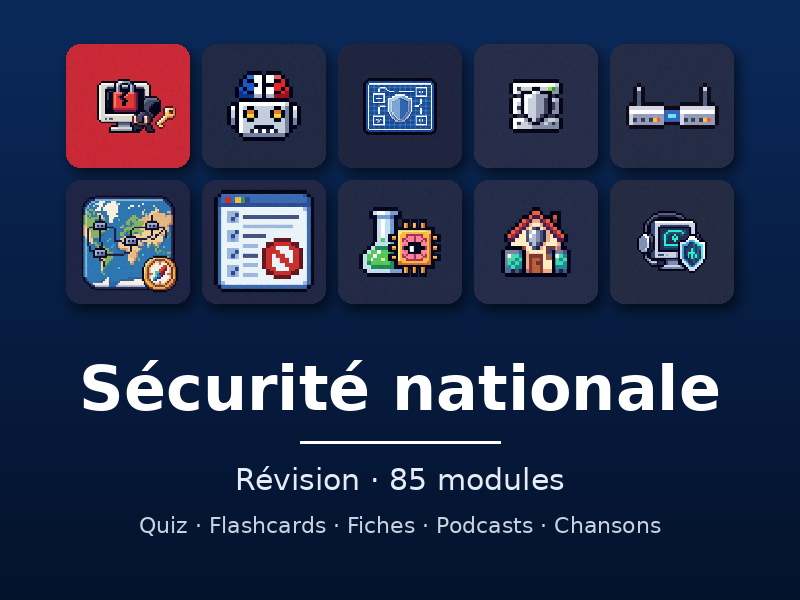
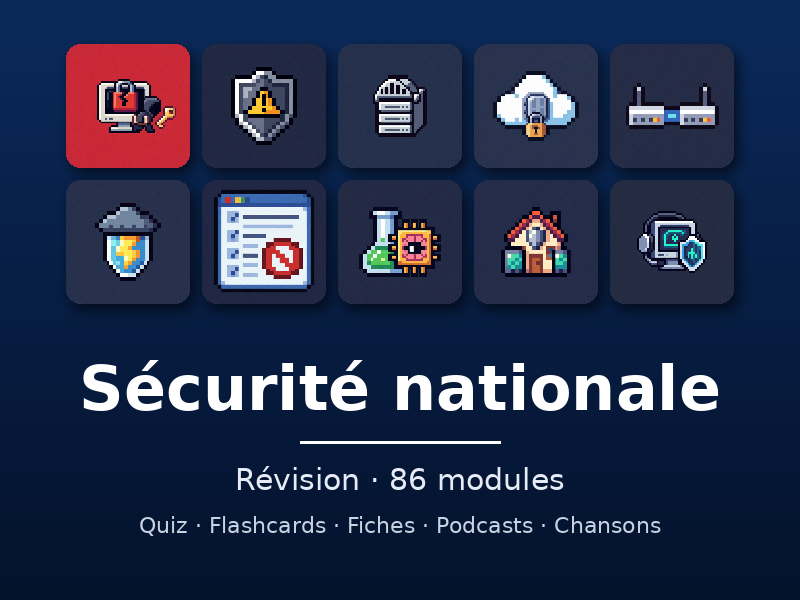
Inventaire des modules et des médias régénéré (07/10)

diff --git a/INVENTAIRE.md b/INVENTAIRE.md
@@ -1,104 +1,105 @@
 # Inventaire des modules et des médias — pse-securite-nationale
 
-Généré le 02/10/2026 à 14:20 par `scripts/inventaire_medias.py` (85 modules). ✅ présent, ❌ absent ; pour QCM, flashcards et TP, nombre d'éléments (0 = absent).
+Généré le 07/10/2026 à 22:19 par `scripts/inventaire_medias.py` (88 modules). ✅ présent, ❌ absent ; pour QCM, flashcards et TP, nombre d'éléments (0 = absent).
 
 ## Synthèse
 
 | Contenu | Présents | Absents | Couverture |
 |---|---:|---:|---:|
-| Fiche | 85 | 0 | 100 % |
-| QCM | 85 | 0 | 100 % |
-| Flash | 85 | 0 | 100 % |
-| TP | 4 | 81 | 4 % |
-| Icône | 85 | 0 | 100 % |
-| Infographie locale | 23 | 62 | 27 % |
-| Infographie NotebookLM | 80 | 5 | 94 % |
-| Paroles | 85 | 0 | 100 % |
-| Chanson | 85 | 0 | 100 % |
-| Podcast local | 20 | 65 | 23 % |
-| Podcast NotebookLM | 83 | 2 | 97 % |
-| Micro-chronique | 1 | 84 | 1 % |
-| Narration fiche | 85 | 0 | 100 % |
-| Audio QCM/flash | 85 | 0 | 100 % |
+| Fiche | 88 | 0 | 100 % |
+| QCM | 88 | 0 | 100 % |
+| Flash | 88 | 0 | 100 % |
+| TP | 4 | 84 | 4 % |
+| Icône | 86 | 2 | 97 % |
+| Infographie locale | 86 | 2 | 97 % |
+| Infographie NotebookLM | 88 | 0 | 100 % |
+| Paroles | 86 | 2 | 97 % |
+| Chanson | 86 | 2 | 97 % |
+| Podcast local | 86 | 2 | 97 % |
+| Podcast NotebookLM | 88 | 0 | 100 % |
+| Micro-chronique | 1 | 87 | 1 % |
+| Narration fiche | 86 | 2 | 97 % |
+| Audio QCM/flash | 86 | 2 | 97 % |
 
 ## Par série
 
 | Série | Modules | Fiche | QCM | Flash | TP | Icône | Infographie locale | Infographie NotebookLM | Paroles | Chanson | Podcast local | Podcast NotebookLM | Micro-chronique | Narration fiche | Audio QCM/flash |
 |---|---:|---:|---:|---:|---:|---:|---:|---:|---:|---:|---:|---:|---:|---:|---:|
-| 00 À la une | 1 | 1 | 1 | 1 | 1 | 1 | 1 | 0 | 1 | 1 | 1 | 1 | 1 | 1 | 1 |
-| 03 ANSSI, SGDSN et stratégies nationales | 84 | 84 | 84 | 84 | 3 | 84 | 22 | 80 | 84 | 84 | 19 | 82 | 0 | 84 | 84 |
+| 00 À la une | 1 | 1 | 1 | 1 | 1 | 1 | 1 | 1 | 1 | 1 | 1 | 1 | 1 | 1 | 1 |
+| 03 ANSSI, SGDSN et stratégies nationales | 87 | 87 | 87 | 87 | 3 | 85 | 85 | 87 | 85 | 85 | 85 | 87 | 0 | 85 | 85 |
 
 ## Détail par module
 
 | Module | Fiche | QCM | Flash | TP | Icône | Infographie locale | Infographie NotebookLM | Paroles | Chanson | Podcast local | Podcast NotebookLM | Micro-chronique | Narration fiche | Audio QCM/flash |
 |---|:---:|:---:|:---:|:---:|:---:|:---:|:---:|:---:|:---:|:---:|:---:|:---:|:---:|:---:|
-| 00-10 ANSSI - Rapport d'incident sur les cyberattaques ayant touché la DGFiP (2026) | ✅ | 28 | 22 | 9 | ✅ | ✅ | ❌ | ✅ | ✅ | ✅ | ✅ | ✅ | ✅ | ✅ |
-| 03-10 ANSSI - Panorama de la cybermenace 2025 | ✅ | 20 | 55 | ❌ | ✅ | ❌ | ✅ | ✅ | ✅ | ❌ | ✅ | ❌ | ✅ | ✅ |
-| 03-20 ANSSI - Stratégie Nationale de Cybersécurité 2026-2030 | ✅ | 20 | 65 | ❌ | ✅ | ❌ | ✅ | ✅ | ✅ | ❌ | ✅ | ❌ | ✅ | ✅ |
-| 03-30 ANSSI - EBIOS Risk Manager Méthodologie d’appréciation des risques | ✅ | 40 | 73 | ❌ | ✅ | ❌ | ✅ | ✅ | ✅ | ❌ | ✅ | ❌ | ✅ | ✅ |
-| 03-40 ANSSI - CyberDico Le lexique de la cybersécurité | ✅ | 76 | 109 | ❌ | ✅ | ❌ | ✅ | ✅ | ✅ | ❌ | ✅ | ❌ | ✅ | ✅ |
-| 03-50 ANSSI - Guide d'hygiène informatique | ✅ | 25 | 70 | ❌ | ✅ | ❌ | ✅ | ✅ | ✅ | ❌ | ✅ | ❌ | ✅ | ✅ |
-| 03-60 COMCYBER-MI - Rapport annuel sur la cybercriminalité 2025 | ✅ | 35 | 66 | ❌ | ✅ | ❌ | ✅ | ✅ | ✅ | ❌ | ✅ | ❌ | ✅ | ✅ |
-| 03-70 SGDSN - Guide pour l'élaboration d'un Plan de Continuité d'Activité | ✅ | 30 | 59 | ❌ | ✅ | ❌ | ✅ | ✅ | ✅ | ❌ | ✅ | ❌ | ✅ | ✅ |
-| 03-80 Stratégie Nationale de Résilience contre les Manipulations de l'Information 2026-2030 | ✅ | 25 | 65 | ❌ | ✅ | ❌ | ✅ | ✅ | ✅ | ❌ | ✅ | ❌ | ✅ | ✅ |
-| 03-90 Stratégie Nationale pour l'Intelligence Artificielle | ✅ | 25 | 83 | ❌ | ✅ | ❌ | ✅ | ✅ | ✅ | ❌ | ✅ | ❌ | ✅ | ✅ |
-| 03-95 Conseil de l'IA et du numérique - IA et cybersécurité | ✅ | 30 | 25 | ❌ | ✅ | ✅ | ❌ | ✅ | ✅ | ✅ | ❌ | ❌ | ✅ | ✅ |
-| 03-100 ANSSI - Rapport d'activité 2024 | ✅ | 41 | 35 | ❌ | ✅ | ❌ | ✅ | ✅ | ✅ | ❌ | ✅ | ❌ | ✅ | ✅ |
-| 03-110 ANSSI - Rapport d'activité 2025 | ✅ | 38 | 29 | ❌ | ✅ | ❌ | ✅ | ✅ | ✅ | ❌ | ✅ | ❌ | ✅ | ✅ |
-| 03-120 ANSSI - Panorama de la cybermenace 2024 | ✅ | 31 | 29 | ❌ | ✅ | ❌ | ✅ | ✅ | ✅ | ❌ | ✅ | ❌ | ✅ | ✅ |
-| 03-130 ANSSI - Sécurisation des réseaux Wi-Fi | ✅ | 15 | 15 | ❌ | ✅ | ❌ | ✅ | ✅ | ✅ | ❌ | ✅ | ❌ | ✅ | ✅ |
-| 03-140 ANSSI - Cœur de confiance | ✅ | 13 | 13 | ❌ | ✅ | ❌ | ✅ | ✅ | ✅ | ❌ | ✅ | ❌ | ✅ | ✅ |
-| 03-150 ANSSI - Défense en profondeur | ✅ | 15 | 15 | ❌ | ✅ | ❌ | ✅ | ✅ | ✅ | ❌ | ✅ | ❌ | ✅ | ✅ |
-| 03-160 ANSSI - Sécuriser une migration numérique | ✅ | 13 | 13 | ❌ | ✅ | ❌ | ✅ | ✅ | ✅ | ❌ | ✅ | ❌ | ✅ | ✅ |
-| 03-170 ANSSI - Mise en œuvre sécurisée d'un serveur Windows | ✅ | 15 | 15 | ❌ | ✅ | ❌ | ✅ | ✅ | ✅ | ❌ | ✅ | ❌ | ✅ | ✅ |
-| 03-180 ANSSI - Architecture sécurisée de SI | ✅ | 13 | 13 | ❌ | ✅ | ❌ | ✅ | ✅ | ✅ | ❌ | ✅ | ❌ | ✅ | ✅ |
-| 03-190 ANSSI - Infrastructure de gestion de clés IGC | ✅ | 15 | 17 | ❌ | ✅ | ❌ | ✅ | ✅ | ✅ | ❌ | ✅ | ❌ | ✅ | ✅ |
-| 03-200 ANSSI - Modèle Zero Trust | ✅ | 14 | 14 | ❌ | ✅ | ❌ | ✅ | ✅ | ✅ | ❌ | ✅ | ❌ | ✅ | ✅ |
-| 03-210 ANSSI - Sélection d'un logiciel libre | ✅ | 13 | 13 | ❌ | ✅ | ❌ | ✅ | ✅ | ✅ | ❌ | ✅ | ❌ | ✅ | ✅ |
-| 03-220 ANSSI - Hygiène numérique des téléphones mobiles | ✅ | 12 | 11 | ❌ | ✅ | ❌ | ✅ | ✅ | ✅ | ❌ | ✅ | ❌ | ✅ | ✅ |
-| 03-230 ANSSI - Données et traitements sensibles | ✅ | 13 | 13 | ❌ | ✅ | ❌ | ✅ | ✅ | ✅ | ❌ | ✅ | ❌ | ✅ | ✅ |
-| 03-240 ANSSI - Bases de données relationnelles | ✅ | 13 | 13 | ❌ | ✅ | ❌ | ✅ | ✅ | ✅ | ❌ | ✅ | ❌ | ✅ | ✅ |
-| 03-250 ANSSI - Se protéger des fuites de données | ✅ | 12 | 12 | ❌ | ✅ | ❌ | ✅ | ✅ | ✅ | ❌ | ✅ | ❌ | ✅ | ✅ |
-| 03-260 ANSSI - Hébergement dans le cloud des SI sensibles | ✅ | 13 | 13 | ❌ | ✅ | ❌ | ✅ | ✅ | ✅ | ❌ | ✅ | ❌ | ✅ | ✅ |
-| 03-270 ANSSI - Dénis de service distribués DDoS | ✅ | 12 | 12 | ❌ | ✅ | ❌ | ✅ | ✅ | ✅ | ❌ | ✅ | ❌ | ✅ | ✅ |
-| 03-280 ANSSI - DevSecOps | ✅ | 12 | 12 | ❌ | ✅ | ❌ | ✅ | ✅ | ✅ | ❌ | ✅ | ❌ | ✅ | ✅ |
-| 03-290 ANSSI - Virtualisation | ✅ | 11 | 11 | ❌ | ✅ | ❌ | ✅ | ✅ | ✅ | ❌ | ✅ | ❌ | ✅ | ✅ |
-| 03-300 ANSSI - Mise en œuvre sécurisée d'un CMS | ✅ | 11 | 11 | ❌ | ✅ | ❌ | ✅ | ✅ | ✅ | ❌ | ✅ | ❌ | ✅ | ✅ |
-| 03-310 ANSSI - Sauvegarde des systèmes d'information | ✅ | 19 | 19 | ❌ | ✅ | ❌ | ✅ | ✅ | ✅ | ❌ | ✅ | ❌ | ✅ | ✅ |
-| 03-320 ANSSI - Sécurisation du poste de travail multi-environnements | ✅ | 20 | 19 | ❌ | ✅ | ❌ | ✅ | ✅ | ✅ | ❌ | ✅ | ❌ | ✅ | ✅ |
-| 03-330 ANSSI - Sécurisation d'une infrastructure VMware | ✅ | 20 | 20 | ❌ | ✅ | ❌ | ✅ | ✅ | ✅ | ❌ | ✅ | ❌ | ✅ | ✅ |
-| 03-340 ANSSI - Automatisation de la gestion des certificats avec ACME | ✅ | 22 | 24 | ❌ | ✅ | ❌ | ✅ | ✅ | ✅ | ❌ | ✅ | ❌ | ✅ | ✅ |
-| 03-350 ANSSI - Recommandations de sécurité relatives à TLS | ✅ | 23 | 22 | ❌ | ✅ | ❌ | ✅ | ✅ | ✅ | ❌ | ✅ | ❌ | ✅ | ✅ |
-| 03-360 ANSSI - Recommandations de sécurité relatives à IPsec | ✅ | 20 | 19 | ❌ | ✅ | ❌ | ✅ | ✅ | ✅ | ❌ | ✅ | ❌ | ✅ | ✅ |
-| 03-370 ANSSI - Recommandations pour un usage sécurisé d'OpenSSH | ✅ | 20 | 21 | 19 | ✅ | ❌ | ✅ | ✅ | ✅ | ❌ | ✅ | ❌ | ✅ | ✅ |
-| 03-380 ANSSI - Recommandations de déploiement du protocole 802.1X | ✅ | 20 | 20 | ❌ | ✅ | ❌ | ✅ | ✅ | ✅ | ❌ | ✅ | ❌ | ✅ | ✅ |
-| 03-390 ANSSI - Recommandations relatives à l'interconnexion d'un SI à Internet | ✅ | 20 | 20 | ❌ | ✅ | ❌ | ✅ | ✅ | ✅ | ❌ | ✅ | ❌ | ✅ | ✅ |
-| 03-400 ANSSI - Sécurisation de la mise en œuvre du protocole OpenID Connect | ✅ | 20 | 20 | ❌ | ✅ | ❌ | ✅ | ✅ | ✅ | ❌ | ✅ | ❌ | ✅ | ✅ |
-| 03-410 ANSSI - Nettoyage d'une politique de filtrage réseau d'un pare-feu | ✅ | 20 | 20 | ❌ | ✅ | ❌ | ✅ | ✅ | ✅ | ❌ | ✅ | ❌ | ✅ | ✅ |
-| 03-420 ANSSI - Définition d'une politique de filtrage réseau d'un pare-feu | ✅ | 20 | 20 | ❌ | ✅ | ❌ | ✅ | ✅ | ✅ | ❌ | ✅ | ❌ | ✅ | ✅ |
-| 03-430 ANSSI - Recommandations pour la mise en place de cloisonnement système | ✅ | 20 | 20 | ❌ | ✅ | ❌ | ✅ | ✅ | ✅ | ❌ | ✅ | ❌ | ✅ | ✅ |
-| 03-440 ANSSI - Recommandations pour choisir des pare-feux maîtrisés dans les zones exposées à Internet | ✅ | 20 | 20 | ❌ | ✅ | ❌ | ✅ | ✅ | ✅ | ❌ | ✅ | ❌ | ✅ | ✅ |
-| 03-450 ANSSI - Configuration sécurisée d'un pare-feu Stormshield Network Security (SNS) | ✅ | 21 | 21 | 13 | ✅ | ❌ | ✅ | ✅ | ✅ | ❌ | ✅ | ❌ | ✅ | ✅ |
-| 03-460 ANSSI - Bonnes pratiques de configuration de BGP | ✅ | 20 | 20 | ❌ | ✅ | ❌ | ✅ | ✅ | ✅ | ❌ | ✅ | ❌ | ✅ | ✅ |
-| 03-470 ANSSI - Recommandations de configuration d'un système GNU-Linux | ✅ | 20 | 20 | 16 | ✅ | ❌ | ✅ | ✅ | ✅ | ❌ | ✅ | ❌ | ✅ | ✅ |
-| 03-480 ANSSI - Recommandations de sécurité relatives à Active Directory | ✅ | 21 | 20 | ❌ | ✅ | ❌ | ✅ | ✅ | ✅ | ❌ | ✅ | ❌ | ✅ | ✅ |
-| 03-490 ANSSI - Administration sécurisée des SI reposant sur Active Directory | ✅ | 20 | 20 | ❌ | ✅ | ❌ | ✅ | ✅ | ✅ | ❌ | ✅ | ❌ | ✅ | ✅ |
-| 03-500 ANSSI - Recommandations relatives à l'administration sécurisée des systèmes d'information | ✅ | 20 | 20 | ❌ | ✅ | ❌ | ✅ | ✅ | ✅ | ❌ | ✅ | ❌ | ✅ | ✅ |
-| 03-510 ANSSI - Journalisation des systèmes Microsoft Windows en environnement Active Directory | ✅ | 20 | 20 | ❌ | ✅ | ❌ | ✅ | ✅ | ✅ | ❌ | ✅ | ❌ | ✅ | ✅ |
-| 03-520 ANSSI - Recommandations de configuration matérielle de postes clients et serveurs x86 | ✅ | 19 | 20 | ❌ | ✅ | ❌ | ✅ | ✅ | ✅ | ❌ | ✅ | ❌ | ✅ | ✅ |
-| 03-530 ANSSI - Fonctionnalités de sécurité de Windows 10 reposant sur la virtualisation | ✅ | 20 | 20 | ❌ | ✅ | ❌ | ✅ | ✅ | ✅ | ❌ | ✅ | ❌ | ✅ | ✅ |
-| 03-540 ANSSI - Préoccupations relatives au respect de la vie privée et à la confidentialité des données sous Windows 10 | ✅ | 20 | 20 | ❌ | ✅ | ❌ | ✅ | ✅ | ✅ | ❌ | ✅ | ❌ | ✅ | ✅ |
-| 03-550 ANSSI - Recommandations pour la mise en œuvre d'une politique de restrictions logicielles sous Windows | ✅ | 20 | 20 | ❌ | ✅ | ❌ | ✅ | ✅ | ✅ | ❌ | ✅ | ❌ | ✅ | ✅ |
-| 03-560 ANSSI - Recommandations de sécurité relatives aux environnements d'exécution Java sur les postes de travail Microsoft Windows | ✅ | 20 | 20 | ❌ | ✅ | ❌ | ✅ | ✅ | ✅ | ❌ | ✅ | ❌ | ✅ | ✅ |
-| 03-570 DRSD - Guide pratique d'analyse de risques | ✅ | 45 | 57 | ❌ | ✅ | ❌ | ✅ | ✅ | ✅ | ❌ | ✅ | ❌ | ✅ | ✅ |
-| 03-580 DRSD - Guide pratique de gestion de la sûreté des PME et ETI de la BITD | ✅ | 43 | 51 | ❌ | ✅ | ❌ | ✅ | ✅ | ✅ | ❌ | ✅ | ❌ | ✅ | ✅ |
-| 03-590 DRSD - Guide de survie face à la crise | ✅ | 42 | 44 | ❌ | ✅ | ❌ | ✅ | ✅ | ✅ | ❌ | ✅ | ❌ | ✅ | ✅ |
-| 03-600 DRSD - Réflexes de sûreté, salons, Diffusion Restreinte et visites | ✅ | 47 | 44 | ❌ | ✅ | ❌ | ✅ | ✅ | ✅ | ❌ | ✅ | ❌ | ✅ | ✅ |
-| 03-610 DRSD - Lettres d'information économique, cyber, exportations, secret et propriété intellectuelle | ✅ | 49 | 46 | ❌ | ✅ | ❌ | ✅ | ✅ | ✅ | ❌ | ✅ | ❌ | ✅ | ✅ |
-| 03-615 DRSD - Panoramas des ingérences contre la sphère défense 2024-2025 et salons d'armement | ✅ | 42 | 36 | ❌ | ✅ | ❌ | ✅ | ✅ | ✅ | ❌ | ✅ | ❌ | ✅ | ✅ |
-| 03-620 DGSI - Flash ingérence, facteur humain, débauchages et menace interne | ✅ | 30 | 29 | ❌ | ✅ | ✅ | ✅ | ✅ | ✅ | ❌ | ✅ | ❌ | ✅ | ✅ |
-| 03-630 DGSI - Flash ingérence, recherche, innovation, logiciels et intelligence artificielle | ✅ | 32 | 28 | ❌ | ✅ | ✅ | ✅ | ✅ | ✅ | ❌ | ✅ | ❌ | ✅ | ✅ |
-| 03-640 DGSI - Flash ingérence, sûreté physique, repérages, sabotages, salons et outils numériques | ✅ | 32 | 28 | ❌ | ✅ | ✅ | ✅ | ✅ | ✅ | ❌ | ✅ | ❌ | ✅ | ✅ |
+| 00-10 ANSSI - Rapport d'incident sur les cyberattaques ayant touché la DGFiP (2026) | ✅ | 28 | 22 | 9 | ✅ | ✅ | ✅ | ✅ | ✅ | ✅ | ✅ | ✅ | ✅ | ✅ |
+| 03-10 ANSSI - Panorama de la cybermenace 2025 | ✅ | 20 | 55 | ❌ | ✅ | ✅ | ✅ | ✅ | ✅ | ✅ | ✅ | ❌ | ✅ | ✅ |
+| 03-20 ANSSI - Stratégie Nationale de Cybersécurité 2026-2030 | ✅ | 20 | 65 | ❌ | ✅ | ✅ | ✅ | ✅ | ✅ | ✅ | ✅ | ❌ | ✅ | ✅ |
+| 03-30 ANSSI - EBIOS Risk Manager Méthodologie d’appréciation des risques | ✅ | 40 | 73 | ❌ | ✅ | ✅ | ✅ | ✅ | ✅ | ✅ | ✅ | ❌ | ✅ | ✅ |
+| 03-40 ANSSI - CyberDico Le lexique de la cybersécurité | ✅ | 76 | 109 | ❌ | ✅ | ✅ | ✅ | ✅ | ✅ | ✅ | ✅ | ❌ | ✅ | ✅ |
+| 03-50 ANSSI - Guide d'hygiène informatique | ✅ | 25 | 70 | ❌ | ✅ | ✅ | ✅ | ✅ | ✅ | ✅ | ✅ | ❌ | ✅ | ✅ |
+| 03-60 COMCYBER-MI - Rapport annuel sur la cybercriminalité 2025 | ✅ | 35 | 66 | ❌ | ✅ | ✅ | ✅ | ✅ | ✅ | ✅ | ✅ | ❌ | ✅ | ✅ |
+| 03-70 SGDSN - Guide pour l'élaboration d'un Plan de Continuité d'Activité | ✅ | 30 | 59 | ❌ | ✅ | ✅ | ✅ | ✅ | ✅ | ✅ | ✅ | ❌ | ✅ | ✅ |
+| 03-80 SGDSN - Stratégie nationale de lutte contre les manipulations de l'information d'origine étrangère 2026-2030 | ✅ | 25 | 65 | ❌ | ✅ | ✅ | ✅ | ✅ | ✅ | ✅ | ✅ | ❌ | ✅ | ✅ |
+| 03-85 Vigipirate - Objectifs de cybersécurité | ✅ | 30 | 25 | ❌ | ✅ | ✅ | ✅ | ✅ | ✅ | ✅ | ✅ | ❌ | ✅ | ✅ |
+| 03-90 Mission Villani - Donner un sens à l'intelligence artificielle (2018) | ✅ | 25 | 83 | ❌ | ✅ | ✅ | ✅ | ✅ | ✅ | ✅ | ✅ | ❌ | ✅ | ✅ |
+| 03-95 Conseil de l'IA et du numérique - IA et cybersécurité | ✅ | 30 | 25 | ❌ | ✅ | ✅ | ✅ | ✅ | ✅ | ✅ | ✅ | ❌ | ✅ | ✅ |
+| 03-100 ANSSI - Rapport d'activité 2024 | ✅ | 41 | 35 | ❌ | ✅ | ✅ | ✅ | ✅ | ✅ | ✅ | ✅ | ❌ | ✅ | ✅ |
+| 03-110 ANSSI - Rapport d'activité 2025 | ✅ | 38 | 29 | ❌ | ✅ | ✅ | ✅ | ✅ | ✅ | ✅ | ✅ | ❌ | ✅ | ✅ |
+| 03-120 ANSSI - Panorama de la cybermenace 2024 | ✅ | 31 | 29 | ❌ | ✅ | ✅ | ✅ | ✅ | ✅ | ✅ | ✅ | ❌ | ✅ | ✅ |
+| 03-130 ANSSI - Sécurisation des réseaux Wi-Fi | ✅ | 15 | 15 | ❌ | ✅ | ✅ | ✅ | ✅ | ✅ | ✅ | ✅ | ❌ | ✅ | ✅ |
+| 03-140 ANSSI - Cœur de confiance | ✅ | 13 | 13 | ❌ | ✅ | ✅ | ✅ | ✅ | ✅ | ✅ | ✅ | ❌ | ✅ | ✅ |
+| 03-150 ANSSI - Défense en profondeur | ✅ | 15 | 15 | ❌ | ✅ | ✅ | ✅ | ✅ | ✅ | ✅ | ✅ | ❌ | ✅ | ✅ |
+| 03-160 ANSSI - Sécuriser une migration numérique | ✅ | 13 | 13 | ❌ | ✅ | ✅ | ✅ | ✅ | ✅ | ✅ | ✅ | ❌ | ✅ | ✅ |
+| 03-170 ANSSI - Mise en œuvre sécurisée d'un serveur Windows | ✅ | 15 | 15 | ❌ | ✅ | ✅ | ✅ | ✅ | ✅ | ✅ | ✅ | ❌ | ✅ | ✅ |
+| 03-180 ANSSI - Architecture sécurisée de SI | ✅ | 13 | 13 | ❌ | ✅ | ✅ | ✅ | ✅ | ✅ | ✅ | ✅ | ❌ | ✅ | ✅ |
+| 03-190 ANSSI - Infrastructure de gestion de clés IGC | ✅ | 15 | 17 | ❌ | ✅ | ✅ | ✅ | ✅ | ✅ | ✅ | ✅ | ❌ | ✅ | ✅ |
+| 03-200 ANSSI - Modèle Zero Trust | ✅ | 14 | 14 | ❌ | ✅ | ✅ | ✅ | ✅ | ✅ | ✅ | ✅ | ❌ | ✅ | ✅ |
+| 03-210 ANSSI - Sélection d'un logiciel libre | ✅ | 13 | 13 | ❌ | ✅ | ✅ | ✅ | ✅ | ✅ | ✅ | ✅ | ❌ | ✅ | ✅ |
+| 03-220 ANSSI - Hygiène numérique des téléphones mobiles | ✅ | 12 | 11 | ❌ | ✅ | ✅ | ✅ | ✅ | ✅ | ✅ | ✅ | ❌ | ✅ | ✅ |
+| 03-230 ANSSI - Données et traitements sensibles | ✅ | 13 | 13 | ❌ | ✅ | ✅ | ✅ | ✅ | ✅ | ✅ | ✅ | ❌ | ✅ | ✅ |
+| 03-240 ANSSI - Bases de données relationnelles | ✅ | 13 | 13 | ❌ | ✅ | ✅ | ✅ | ✅ | ✅ | ✅ | ✅ | ❌ | ✅ | ✅ |
+| 03-250 ANSSI - Se protéger des fuites de données | ✅ | 12 | 12 | ❌ | ✅ | ✅ | ✅ | ✅ | ✅ | ✅ | ✅ | ❌ | ✅ | ✅ |
+| 03-260 ANSSI - Hébergement dans le cloud des SI sensibles | ✅ | 13 | 13 | ❌ | ✅ | ✅ | ✅ | ✅ | ✅ | ✅ | ✅ | ❌ | ✅ | ✅ |
+| 03-270 ANSSI - Dénis de service distribués DDoS | ✅ | 12 | 12 | ❌ | ✅ | ✅ | ✅ | ✅ | ✅ | ✅ | ✅ | ❌ | ✅ | ✅ |
+| 03-280 ANSSI - DevSecOps | ✅ | 12 | 12 | ❌ | ✅ | ✅ | ✅ | ✅ | ✅ | ✅ | ✅ | ❌ | ✅ | ✅ |
+| 03-290 ANSSI - Virtualisation | ✅ | 11 | 11 | ❌ | ✅ | ✅ | ✅ | ✅ | ✅ | ✅ | ✅ | ❌ | ✅ | ✅ |
+| 03-300 ANSSI - Mise en œuvre sécurisée d'un CMS | ✅ | 11 | 11 | ❌ | ✅ | ✅ | ✅ | ✅ | ✅ | ✅ | ✅ | ❌ | ✅ | ✅ |
+| 03-310 ANSSI - Sauvegarde des systèmes d'information | ✅ | 19 | 19 | ❌ | ✅ | ✅ | ✅ | ✅ | ✅ | ✅ | ✅ | ❌ | ✅ | ✅ |
+| 03-320 ANSSI - Sécurisation du poste de travail multi-environnements | ✅ | 20 | 19 | ❌ | ✅ | ✅ | ✅ | ✅ | ✅ | ✅ | ✅ | ❌ | ✅ | ✅ |
+| 03-330 ANSSI - Sécurisation d'une infrastructure VMware | ✅ | 20 | 20 | ❌ | ✅ | ✅ | ✅ | ✅ | ✅ | ✅ | ✅ | ❌ | ✅ | ✅ |
+| 03-340 ANSSI - Automatisation de la gestion des certificats avec ACME | ✅ | 22 | 24 | ❌ | ✅ | ✅ | ✅ | ✅ | ✅ | ✅ | ✅ | ❌ | ✅ | ✅ |
+| 03-350 ANSSI - Recommandations de sécurité relatives à TLS | ✅ | 23 | 22 | ❌ | ✅ | ✅ | ✅ | ✅ | ✅ | ✅ | ✅ | ❌ | ✅ | ✅ |
+| 03-360 ANSSI - Recommandations de sécurité relatives à IPsec | ✅ | 20 | 19 | ❌ | ✅ | ✅ | ✅ | ✅ | ✅ | ✅ | ✅ | ❌ | ✅ | ✅ |
+| 03-370 ANSSI - Recommandations pour un usage sécurisé d'OpenSSH | ✅ | 20 | 21 | 19 | ✅ | ✅ | ✅ | ✅ | ✅ | ✅ | ✅ | ❌ | ✅ | ✅ |
+| 03-380 ANSSI - Recommandations de déploiement du protocole 802.1X | ✅ | 20 | 20 | ❌ | ✅ | ✅ | ✅ | ✅ | ✅ | ✅ | ✅ | ❌ | ✅ | ✅ |
+| 03-390 ANSSI - Recommandations relatives à l'interconnexion d'un SI à Internet | ✅ | 20 | 20 | ❌ | ✅ | ✅ | ✅ | ✅ | ✅ | ✅ | ✅ | ❌ | ✅ | ✅ |
+| 03-400 ANSSI - Sécurisation de la mise en œuvre du protocole OpenID Connect | ✅ | 20 | 20 | ❌ | ✅ | ✅ | ✅ | ✅ | ✅ | ✅ | ✅ | ❌ | ✅ | ✅ |
+| 03-410 ANSSI - Nettoyage d'une politique de filtrage réseau d'un pare-feu | ✅ | 20 | 20 | ❌ | ✅ | ✅ | ✅ | ✅ | ✅ | ✅ | ✅ | ❌ | ✅ | ✅ |
+| 03-420 ANSSI - Définition d'une politique de filtrage réseau d'un pare-feu | ✅ | 20 | 20 | ❌ | ✅ | ✅ | ✅ | ✅ | ✅ | ✅ | ✅ | ❌ | ✅ | ✅ |
+| 03-430 ANSSI - Recommandations pour la mise en place de cloisonnement système | ✅ | 20 | 20 | ❌ | ✅ | ✅ | ✅ | ✅ | ✅ | ✅ | ✅ | ❌ | ✅ | ✅ |
+| 03-440 ANSSI - Recommandations pour choisir des pare-feux maîtrisés dans les zones exposées à Internet | ✅ | 20 | 20 | ❌ | ✅ | ✅ | ✅ | ✅ | ✅ | ✅ | ✅ | ❌ | ✅ | ✅ |
+| 03-450 ANSSI - Configuration sécurisée d'un pare-feu Stormshield Network Security (SNS) | ✅ | 21 | 21 | 13 | ✅ | ✅ | ✅ | ✅ | ✅ | ✅ | ✅ | ❌ | ✅ | ✅ |
+| 03-460 ANSSI - Bonnes pratiques de configuration de BGP | ✅ | 20 | 20 | ❌ | ✅ | ✅ | ✅ | ✅ | ✅ | ✅ | ✅ | ❌ | ✅ | ✅ |
+| 03-470 ANSSI - Recommandations de configuration d'un système GNU-Linux | ✅ | 20 | 20 | 16 | ✅ | ✅ | ✅ | ✅ | ✅ | ✅ | ✅ | ❌ | ✅ | ✅ |
+| 03-480 ANSSI - Recommandations de sécurité relatives à Active Directory | ✅ | 21 | 20 | ❌ | ✅ | ✅ | ✅ | ✅ | ✅ | ✅ | ✅ | ❌ | ✅ | ✅ |
+| 03-490 ANSSI - Administration sécurisée des SI reposant sur Active Directory | ✅ | 20 | 20 | ❌ | ✅ | ✅ | ✅ | ✅ | ✅ | ✅ | ✅ | ❌ | ✅ | ✅ |
+| 03-500 ANSSI - Recommandations relatives à l'administration sécurisée des systèmes d'information | ✅ | 20 | 20 | ❌ | ✅ | ✅ | ✅ | ✅ | ✅ | ✅ | ✅ | ❌ | ✅ | ✅ |
+| 03-510 ANSSI - Journalisation des systèmes Microsoft Windows en environnement Active Directory | ✅ | 20 | 20 | ❌ | ✅ | ✅ | ✅ | ✅ | ✅ | ✅ | ✅ | ❌ | ✅ | ✅ |
+| 03-520 ANSSI - Recommandations de configuration matérielle de postes clients et serveurs x86 | ✅ | 19 | 20 | ❌ | ✅ | ✅ | ✅ | ✅ | ✅ | ✅ | ✅ | ❌ | ✅ | ✅ |
+| 03-530 ANSSI - Fonctionnalités de sécurité de Windows 10 reposant sur la virtualisation | ✅ | 20 | 20 | ❌ | ✅ | ✅ | ✅ | ✅ | ✅ | ✅ | ✅ | ❌ | ✅ | ✅ |
+| 03-540 ANSSI - Préoccupations relatives au respect de la vie privée et à la confidentialité des données sous Windows 10 | ✅ | 20 | 20 | ❌ | ✅ | ✅ | ✅ | ✅ | ✅ | ✅ | ✅ | ❌ | ✅ | ✅ |
+| 03-550 ANSSI - Recommandations pour la mise en œuvre d'une politique de restrictions logicielles sous Windows | ✅ | 20 | 20 | ❌ | ✅ | ✅ | ✅ | ✅ | ✅ | ✅ | ✅ | ❌ | ✅ | ✅ |
+| 03-560 ANSSI - Recommandations de sécurité relatives aux environnements d'exécution Java sur les postes de travail Microsoft Windows | ✅ | 20 | 20 | ❌ | ✅ | ✅ | ✅ | ✅ | ✅ | ✅ | ✅ | ❌ | ✅ | ✅ |
+| 03-570 DRSD - Guide pratique d'analyse de risques | ✅ | 45 | 57 | ❌ | ✅ | ✅ | ✅ | ✅ | ✅ | ✅ | ✅ | ❌ | ✅ | ✅ |
+| 03-580 DRSD - Guide pratique de gestion de la sûreté des PME et ETI de la BITD | ✅ | 43 | 51 | ❌ | ✅ | ✅ | ✅ | ✅ | ✅ | ✅ | ✅ | ❌ | ✅ | ✅ |
+| 03-590 DRSD - Guide de survie face à la crise | ✅ | 42 | 44 | ❌ | ✅ | ✅ | ✅ | ✅ | ✅ | ✅ | ✅ | ❌ | ✅ | ✅ |
+| 03-600 DRSD - Réflexes de sûreté, salons, Diffusion Restreinte et visites | ✅ | 47 | 44 | ❌ | ✅ | ✅ | ✅ | ✅ | ✅ | ✅ | ✅ | ❌ | ✅ | ✅ |
+| 03-610 DRSD - Lettres d'information économique, cyber, exportations, secret et propriété intellectuelle | ✅ | 49 | 46 | ❌ | ✅ | ✅ | ✅ | ✅ | ✅ | ✅ | ✅ | ❌ | ✅ | ✅ |
+| 03-615 DRSD - Panoramas des ingérences contre la sphère défense 2024-2025 et salons d'armement | ✅ | 42 | 36 | ❌ | ✅ | ✅ | ✅ | ✅ | ✅ | ✅ | ✅ | ❌ | ✅ | ✅ |
+| 03-620 DGSI - Flash ingérence, facteur humain, débauchages et menace interne | ✅ | 30 | 29 | ❌ | ✅ | ✅ | ✅ | ✅ | ✅ | ✅ | ✅ | ❌ | ✅ | ✅ |
+| 03-630 DGSI - Flash ingérence, recherche, innovation, logiciels et intelligence artificielle | ✅ | 32 | 28 | ❌ | ✅ | ✅ | ✅ | ✅ | ✅ | ✅ | ✅ | ❌ | ✅ | ✅ |
+| 03-640 DGSI - Flash ingérence, sûreté physique, repérages, sabotages, salons et outils numériques | ✅ | 32 | 28 | ❌ | ✅ | ✅ | ✅ | ✅ | ✅ | ✅ | ✅ | ❌ | ✅ | ✅ |
 | 03-650 DGSI - Flash ingérence, escroqueries, investisseurs, lois extraterritoriales, embargos et réputation | ✅ | 32 | 26 | ❌ | ✅ | ✅ | ✅ | ✅ | ✅ | ✅ | ✅ | ❌ | ✅ | ✅ |
 | 03-660 Viginum - Ingérences numériques étrangères, rapport 2024 et kits de sensibilisation | ✅ | 32 | 27 | ❌ | ✅ | ✅ | ✅ | ✅ | ✅ | ✅ | ✅ | ❌ | ✅ | ✅ |
 | 03-670 SGDSN - Rapport d'activité 2025, Revue nationale stratégique et Mémento de la sécurité nationale | ✅ | 32 | 28 | ❌ | ✅ | ✅ | ✅ | ✅ | ✅ | ✅ | ✅ | ❌ | ✅ | ✅ |
@@ -112,8 +113,10 @@ Généré le 02/10/2026 à 14:20 par `scripts/inventaire_medias.py` (85 modules)
 | 03-750 IHEMI - Revue Défis n°1, la cybersécurité et l'intelligence stratégique en 2013 | ✅ | 30 | 20 | ❌ | ✅ | ✅ | ✅ | ✅ | ✅ | ✅ | ✅ | ❌ | ✅ | ✅ |
 | 03-760 ANSSI - REACTIV point de situation septembre 2026 | ✅ | 65 | 38 | ❌ | ✅ | ✅ | ✅ | ✅ | ✅ | ✅ | ✅ | ❌ | ✅ | ✅ |
 | 03-770 ANSSI et C4 - Ciblage d'entités françaises par le mode opératoire Turla du FSB | ✅ | 36 | 22 | ❌ | ✅ | ✅ | ✅ | ✅ | ✅ | ✅ | ✅ | ❌ | ✅ | ✅ |
-| 03-780 ANSSI - L'IA générative face aux attaques informatiques, synthèse de la menace 2025 | ✅ | 35 | 21 | ❌ | ✅ | ✅ | ❌ | ✅ | ✅ | ✅ | ✅ | ❌ | ✅ | ✅ |
-| 03-790 ANSSI et G7 - Préparer l'ère post-quantique, appel à l'action | ✅ | 23 | 14 | ❌ | ✅ | ✅ | ❌ | ✅ | ✅ | ✅ | ✅ | ❌ | ✅ | ✅ |
-| 03-800 ANSSI - Kit d'exercice de crise cyber du secteur agroalimentaire | ✅ | 36 | 21 | ❌ | ✅ | ✅ | ❌ | ✅ | ✅ | ✅ | ❌ | ❌ | ✅ | ✅ |
+| 03-780 ANSSI - L'IA générative face aux attaques informatiques, synthèse de la menace 2025 | ✅ | 35 | 21 | ❌ | ✅ | ✅ | ✅ | ✅ | ✅ | ✅ | ✅ | ❌ | ✅ | ✅ |
+| 03-790 ANSSI et G7 - Préparer l'ère post-quantique, appel à l'action | ✅ | 23 | 14 | ❌ | ✅ | ✅ | ✅ | ✅ | ✅ | ✅ | ✅ | ❌ | ✅ | ✅ |
+| 03-800 ANSSI - Kit d'exercice de crise cyber du secteur agroalimentaire | ✅ | 36 | 21 | ❌ | ✅ | ✅ | ✅ | ✅ | ✅ | ✅ | ✅ | ❌ | ✅ | ✅ |
 | 03-810 ANSSI et DINUM - Le guide de l'homologation de sécurité des systèmes d'information (2025) | ✅ | 33 | 19 | ❌ | ✅ | ✅ | ✅ | ✅ | ✅ | ✅ | ✅ | ❌ | ✅ | ✅ |
 | 03-820 SGDSN - Feuille de route stratégique de l'OSIIC 2024-2027 | ✅ | 45 | 20 | ❌ | ✅ | ✅ | ✅ | ✅ | ✅ | ✅ | ✅ | ❌ | ✅ | ✅ |
+| 03-830 ANSSI - Recommandations pour les architectures des SI sensibles ou Diffusion Restreinte | ✅ | 55 | 26 | ❌ | ❌ | ❌ | ✅ | ❌ | ❌ | ❌ | ✅ | ❌ | ❌ | ❌ |
+| 03-840 SGDSN - IGI 1300 sur la protection du secret de la défense nationale (2021) | ✅ | 64 | 27 | ❌ | ❌ | ❌ | ✅ | ❌ | ❌ | ❌ | ✅ | ❌ | ❌ | ❌ |
